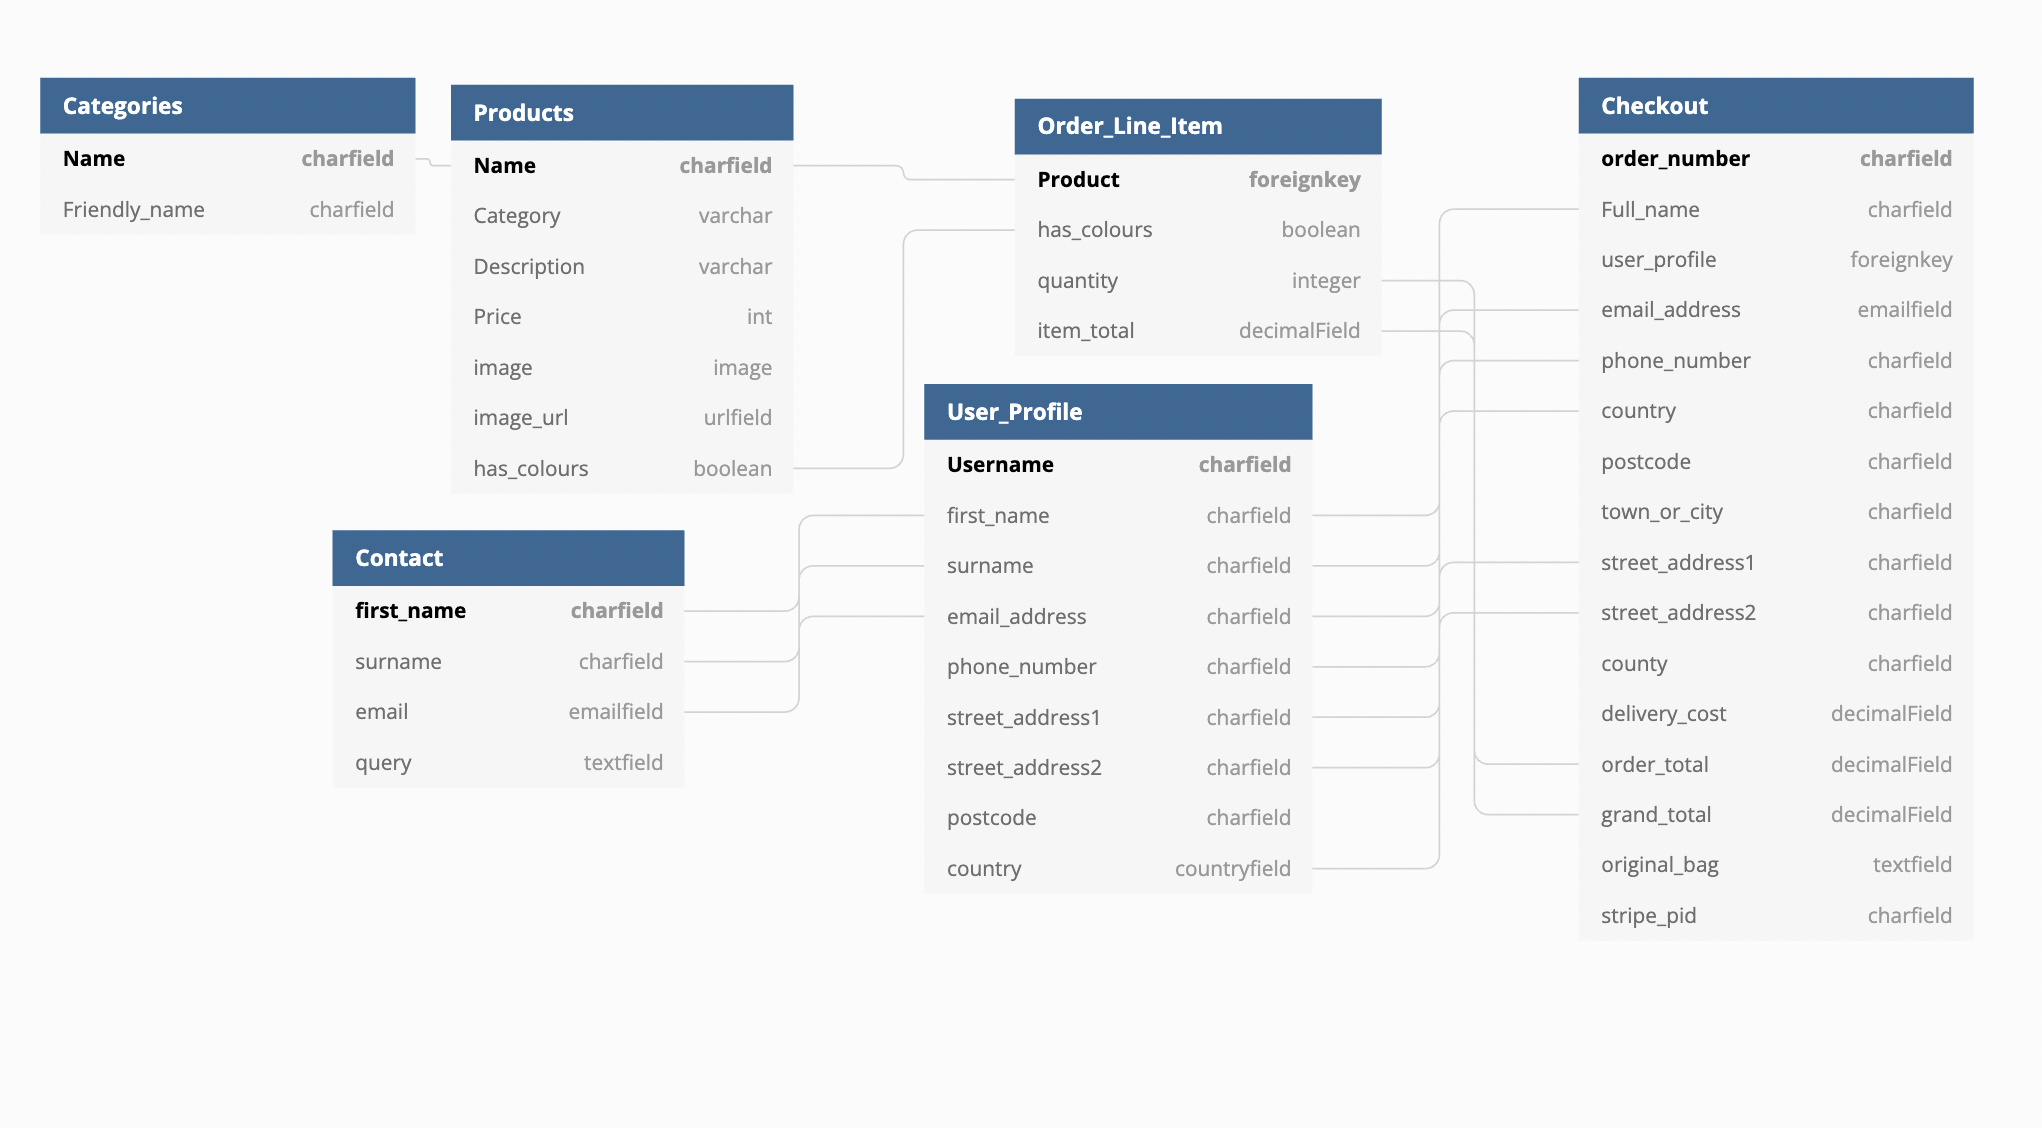
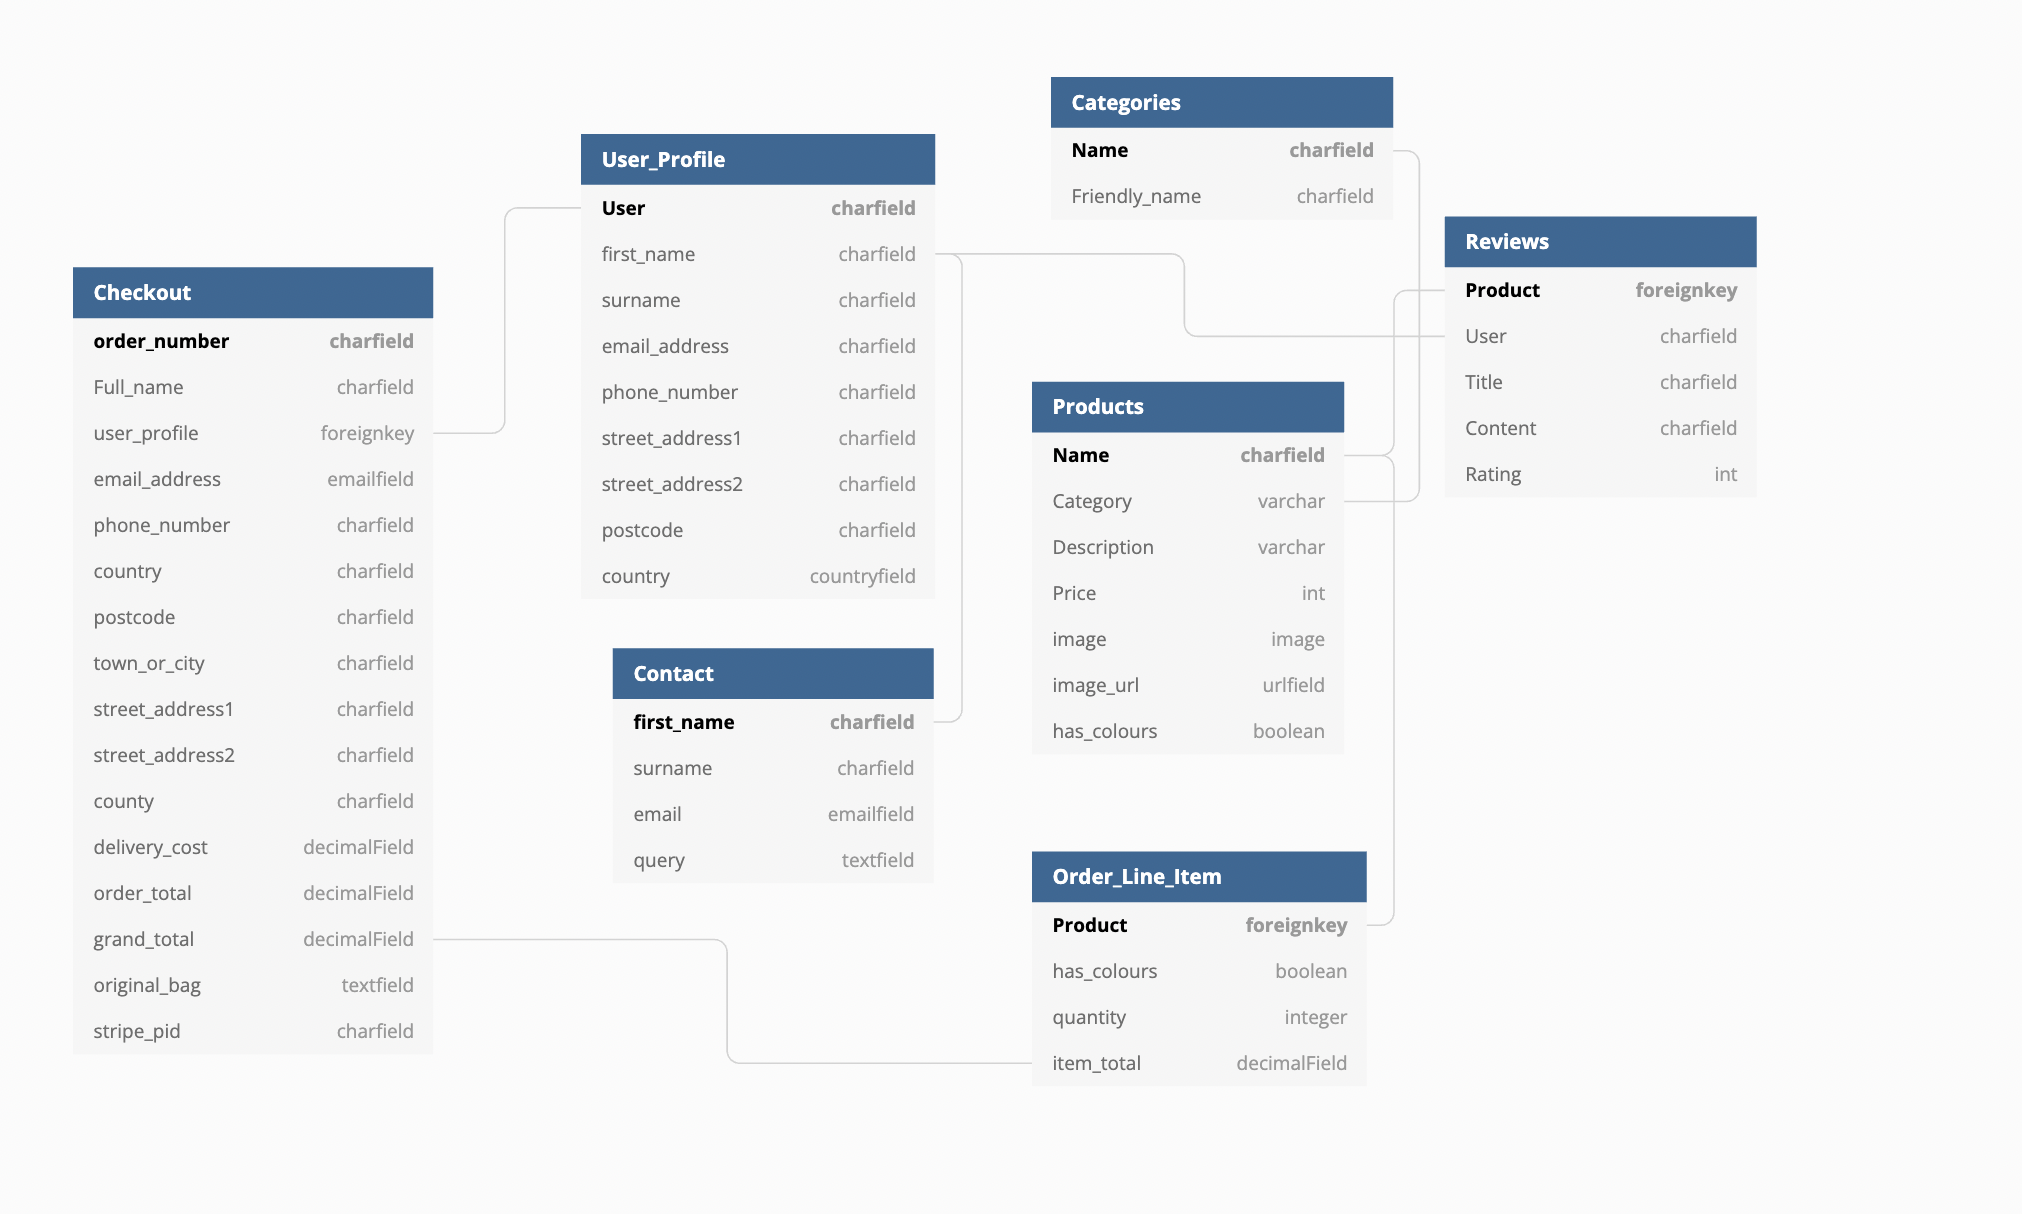
added structure section to README

diff --git a/README.md b/README.md
@@ -18,10 +18,13 @@ For this project I have decided to build an e-commerce site based around my dads
     - [User Stories](#user-stories)
     - [Design](#design)
       - [Wireframes](#wireframes)
-      - [Data Schema](#data-schema)
       - [Imagery](#imagery)
       - [Color Scheme](#color-scheme)
       - [Typography](#typography)
+
+  * [Structure](#structure)
+    - [Data Schema](#data-schema)
+    - [Apps and Models](#apps-and-models)
   
   * [Features](#features)
   * [Future Features](#future-features-i-would-like-to-implement)
@@ -102,7 +105,7 @@ For this project I have decided to build an e-commerce site based around my dads
 
   All text on the site is set to a colour that is easily readable against whichever background it sits on, with the hover effect on the links also still readable while giving a clear sign of it being clickable.
 
-* #### Wireframes
+* ### Wireframes
 
   To create my wireframes I used balsamiq. I have done a design for both large and smaller screens to show how the layout of the site will change accordingly with different screen sizes. The links to the wireframes are below. <br>
   * [Large screens](https://github.com/Ashb87/Ms4-island-furniture/blob/main/assets/wireframes/island-furniture-lg-wireframe.png)
@@ -113,20 +116,13 @@ For this project I have decided to build an e-commerce site based around my dads
   For the navbar, in my wireframes I had kept all the product options in one click down button, however when playing with the design I much preferred the look of having the options displayed on the main navbar.
   I also decided to add more information to my footer, after browsing other sites offering similar products I found that most have links to their contact and/or faq pages. So I added these and a business address just to balance the footer out and make it look more professional. 
 
-* #### Data schema
-
-I have created a database schema for the project using [dbdiagram](https://dbdiagram.io/home). See the image below
-
-<img src="assets/screenshots/db-diagram.png" width="500" height="250">
-<br>
-
-* #### Imagery
+* ### Imagery
 
   For the imagery of this site I have used a lot of my dads own stock photos as I wanted to make the site as genuine to his business as I could. However as he is not much of a photographer and clearly doesn't have the best camera, some of the photos aren't as good quality as I would like them to be. Because of this I also wanted to add a few products with better images I got online. I also found that due to the way some of the photos are taken and different styles of furniture, a lot of the photos were different sizes and some were portrait while others were landscape. To get around the issue I decided to set a height for the images on the products page so that when browsing the products, all the images look uniform and helps keep the page looking smarter. Although this does mean thaty for some products part of the image is cut off. Then when a product is clicked and you are taken to the product details page the photo is then shown as intended. <br>
   If a product is added with no image then a default image will be placed there instead.<br>
   For the hero image on the home page I have used a photo I took myself from where Island Furniture sells some of their products, using a fade in effect when the page is refreshed. I have also used an image on the about section of a picture taken in West Mersea where the business is based. This is to add to the design of the home page and promote where they are from. 
 
-* #### Colour Scheme
+* ### Colour Scheme
 
   For the colours on this project I knew I didn't want anything to bold or colourful but also wanted it to be attractive and not boring. While at the same time making sure they contrast together nicely. After playing about with a few colours on my navbar I decided to look at [coolors.co](https://coolors.co/) to get some more ideas. When using the generator I had an idea of a dark green so when one came up that I liked I applied it to my navbar. I then added a gold colour to it for the links. I again changed my mind and decied I wanted the navbar and footer to be a dark grey, but still really liked the green. So I have used it throughout the site on different elements. It can be found as a background colour on my home page. It is the cololur to all my buttons and also used on the faq section. I then changed the bottom links of my navbar to white to contrast nicely with the dark grey and also not have to much of the gold. <br>
   Throughout the site each page has it's own heading and for this I have used the same gold colour as well as for all my hr rules. The majority of the site is set on a white background as I think it gives a clean look with all the elements contrasting nicely against it.<br>
@@ -137,11 +133,55 @@ I have created a database schema for the project using [dbdiagram](https://dbdia
   <img src="assets/screenshots/colours-used.png" width="450" height="150"> 
   <br>
 
-* #### Typography
+* ### Typography
 
   I have used two fonts across the site, both imported from google fonts. <br>
   They are **Handlee** and **Montserrat Alternates** <br>
   The Handlee font has been used for my headings and home link text in the navbar. I chose this because I think it's an attractive font with a bit of character to it and so stands out well. The Montserrat Alterantes font has been used for all other text on the site. I chose this because it's a bit different to standard fonts but is still esily readable and works well with the look of the site and both fonts compliment each other well.
+
+## Structure
+
+### Data schema
+
+I have created a database schema for the project using [dbdiagram](https://dbdiagram.io/home). See the image below
+
+<img src="assets/screenshots/db-diagram.png" width="500" height="250">
+<br>
+
+### Apps and Models
+
+#### Checkout App
+  
+- Order Model
+  - Holds information for each order which is created when a user completes the checkout process.
+
+-  OrderLineItem Model
+  - Contains information for each product added to the bag.
+
+#### Contact App
+
+- Contact Model
+  - Holds information for each contact message sent to admin
+
+#### Products App
+
+- Category Model 
+  - Stores the product categories
+
+- Products Model
+  - Stores information for individual products
+
+- ProductReview Model
+  - Stores the reviews added by users to products
+
+#### Profiles App
+
+- UserProfile Model
+  - This model securely stores information on each registered user. Information is pulled from this Model to pre-fill the personal information form on the checkout page if the user is logged in, and has information saved.
+
+Models I have added myself for the project can be found in the products app (ProductReview) and the contact app (Contact).
+
+
 
 ## Features
 
